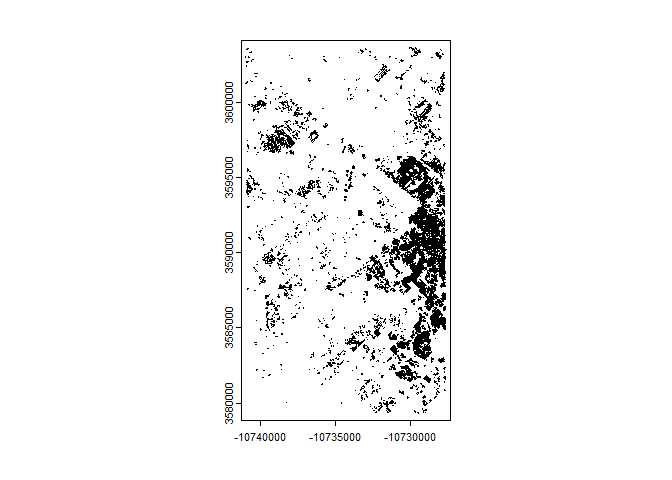
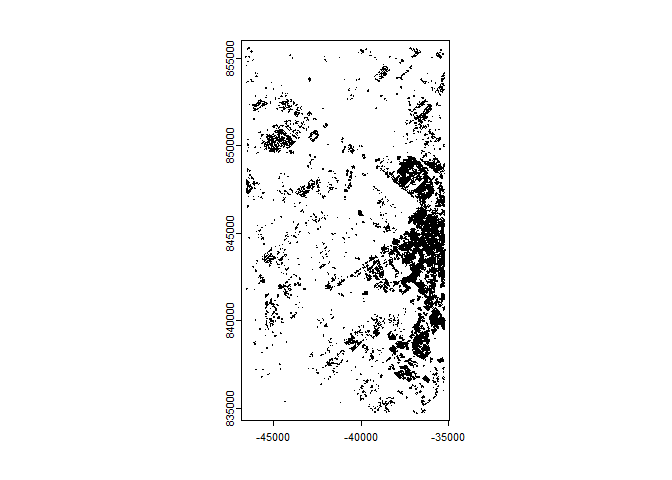
add build tests (#8)
* unit tests for helpers

* mixed string cases in paths

* check nlcd paths

* need a vector here

* set test conditions

* add page_size argument addresses #4

* document helper functions

* test data

* update census block endpoint

* update counties endpoint

* update readme

* switch to annualized NLCD products

* only CU is a valid value

* test nlcd urls are valid or return error

* test nlcd downloads same data as a manual download

* rerender readme

* add `download_urban_areas()`

* add npdes permit download

* httr2 request for echo

* improve documentation

* return filepath output

* download_urban_areas unit tests

* more unit tests

* add build actions

* fix documentation

diff --git a/README.md b/README.md
@@ -8,6 +8,7 @@
 [![Project Status: WIP - Initial development is in progress, but there
 has not yet been a stable, usable release suitable for the
 public.](https://www.repostatus.org/badges/latest/wip.svg)](https://www.repostatus.org/#wip)
+[![R-CMD-check](https://github.com/TxWRI/SELECTRdata/actions/workflows/R-CMD-check.yaml/badge.svg)](https://github.com/TxWRI/SELECTRdata/actions/workflows/R-CMD-check.yaml)
 <!-- badges: end -->
 
 SELECTRdata provides convenience functions for downloading raster and
